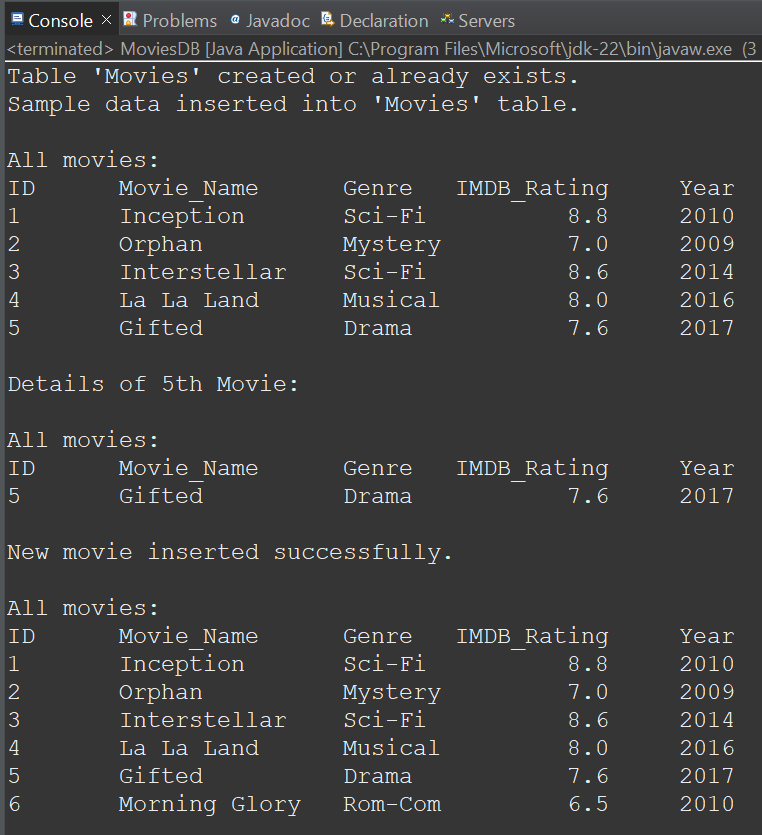
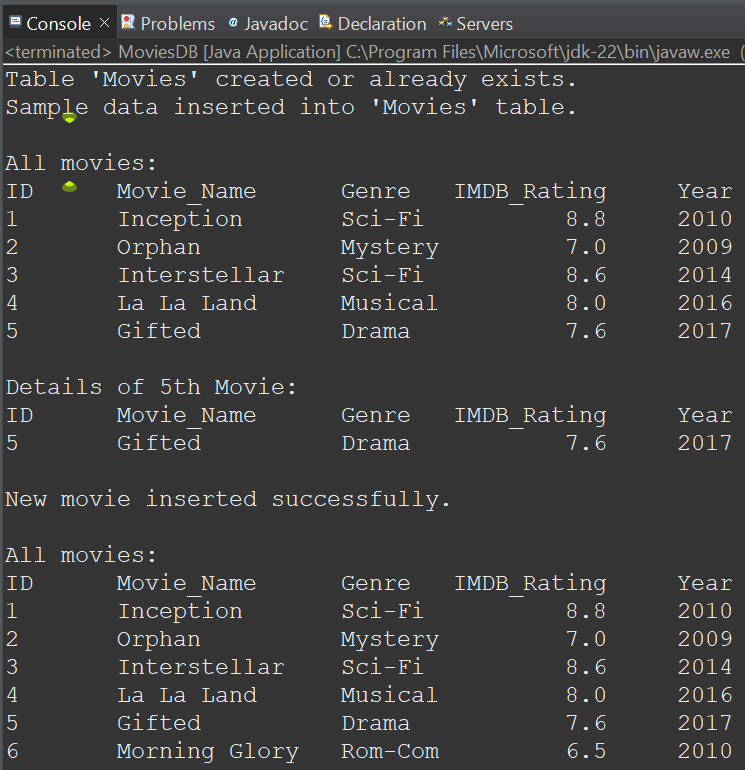
updated AdvJava week3

diff --git a/AdvJava/week2/p2EmployeeDB.java b/AdvJava/week2/p2EmployeeDB.java
@@ -29,10 +29,10 @@ public class P2EmployeeDB {
             // Insert sample data
             String insertDataSQL = "INSERT INTO employees (ID, FName, LName, Project, Salary) VALUES " +
                     "(1, 'Anika', 'Sharma', 'Web Development', 80000), " +
-                    "(2, 'Rahul', 'Patel', 'Devops', 60000), " +
+                    "(2, 'Rahul', 'Patel', 'Devops Engineer', 60000), " +
                     "(3, 'Priya', 'Gupta', 'Web Development', 75000), " +
                     "(4, 'Vivek', 'Kumar', 'Web Development', 50000), " +
-                    "(5, 'Neha', 'Singh', 'Software Engineer', 45000), " +
+                    "(5, 'Neha', 'Singh', 'Software Engg', 45000), " +
                     "(6, 'Amit', 'Mishra', 'Web Development', 90000), " +
                     "(7, 'Meera', 'Nair', 'Data Analysis', 40000), " +
                     "(8, 'Rohan', 'Raj', 'Web Development', 70000)";
@@ -77,8 +77,7 @@ public class P2EmployeeDB {
             String queryLowSalaryCount = "SELECT COUNT(*) AS total FROM employees WHERE Salary < 50000";
             ResultSet rsTotalLowSalary = stmt.executeQuery(queryLowSalaryCount);
             if (rsTotalLowSalary.next()) {
-                System.out.println(
-                        "\nTotal number of employees with Salary < 50,000: " + rsTotalLowSalary.getInt("total"));
+                System.out.println("\nTotal number of employees with Salary < 50,000: " + rsTotalLowSalary.getInt("total"));
             }
 
         } catch (SQLException e) {

diff --git a/AdvJava/week2/p3CarDB.java b/AdvJava/week2/p3CarDB.java
@@ -28,9 +28,9 @@ public class P3CarDB {
             // Insert sample data
             String insertDataSQL = "INSERT INTO cars (Model, Company, Price, Year) VALUES " +
                     "('ABC', 'Ford', 150000, 2010), " +
-                    "('BCD', 'Mahindra', 120000, 2015), " +
+                    "('BCD', 'Tata', 120000, 2015), " +
                     "('CDE', 'Kia', 150000, 2018), " +
-                    "('DEF', 'Tata', 200000, 2020)";
+                    "('DEF', 'MG', 200000, 2020)";
             stmt.executeUpdate(insertDataSQL);
             System.out.println("Sample data inserted into 'cars' table.");
 

diff --git a/AdvJava/week3/P3MoviesDB.java b/AdvJava/week3/P3MoviesDB.java
@@ -45,7 +45,7 @@ public class P3MoviesDB {
             // ii. Display details of 5th Movie from the table
             if (rs.absolute(5)) {
                 System.out.println("\nDetails of 5th Movie:");
-                System.out.println("\nAll movies:\nID\tMovie_Name\tGenre\tIMDB_Rating\tYear");
+                System.out.println("ID\tMovie_Name\tGenre\tIMDB_Rating\tYear");
                 System.out.println(rs.getInt("ID") + "\t" +
                         rs.getString("Movie_Name") + "\t" +
                         rs.getString("Genre") + "\t\t" +
